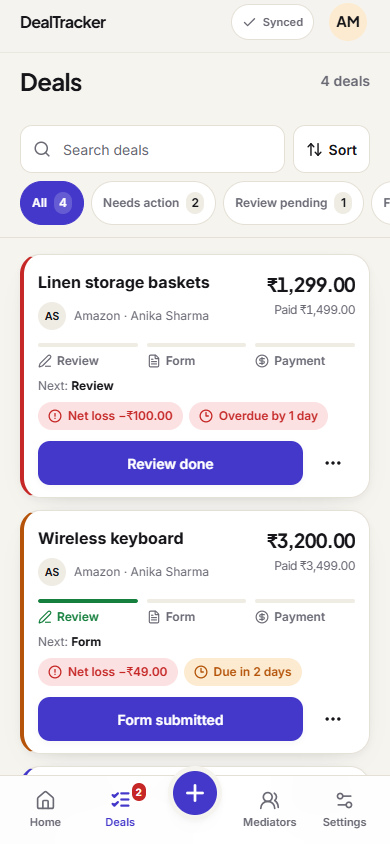
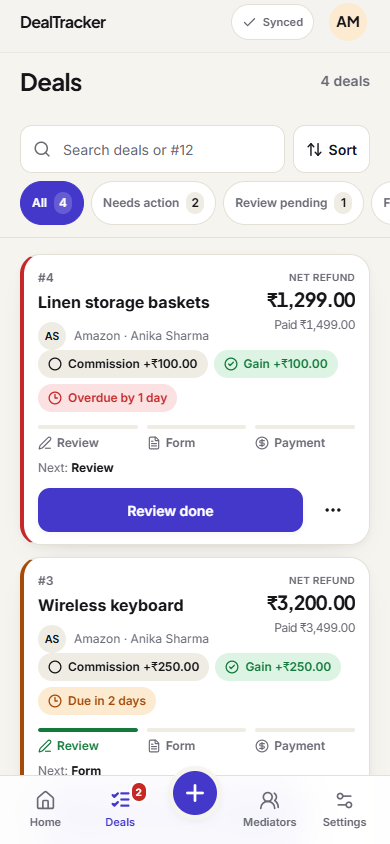
Document landing page and refresh screenshots

Changed region(s): [[0.0308, 0.3081, 0.9231, 0.9242], [0.4, 0.154, 0.4923, 0.1848]]

diff --git a/docs/DESIGN.md b/docs/DESIGN.md
@@ -29,6 +29,14 @@ To add a theme, define its light and dark palette tokens in `frontend/src/styles
 - Light cards use a restrained shadow. Dark cards rely on borders.
 - The content column is at most 480px on desktop; page gutters and bottom navigation respect device safe areas.
 
+## Public landing and legal pages
+
+The logged-out `/login` route is the product landing page. Authenticated users are redirected straight to Home and never see it. It uses the same tokens and UI primitives, one `h1`, labelled sections, native `<details>` FAQ items, and visible focus states. The primary and final actions use a Google-branded sign-in button with an 18px Google mark, the "Continue with Google" wording, and Google logo colours defined only in `tokens.css`. The Home preview is CSS and inline SVG with clearly labelled sample deals; its float, card and progress animations stop under `prefers-reduced-motion`.
+
+`/privacy` and `/terms` are public plain-English pages linked from the landing footer. Both are marked with a top-of-file legal-review comment and should be reviewed before public launch. The support address comes from `CONTACT_EMAIL` in `src/config/app.ts` and is still a placeholder.
+
+SEO tags (title, description, Open Graph, Twitter, canonical and theme colour) live in `index.html`; `src/lib/pageMeta.ts` keeps the absolute canonical and social URLs correct per page at runtime.
+
 ## Components and interaction
 
 Use the small primitives in `src/components/ui.tsx`: Button, IconButton, Card, Chip, Stat, Sheet, Toast, Skeleton, EmptyState, SegmentedControl, Input, and Select. Use `Avatar` for people and mediators. Keep existing `data-testid` hooks when restyling.
@@ -53,10 +61,11 @@ Use the small primitives in `src/components/ui.tsx`: Button, IconButton, Card, C
 
 ## Screenshot review
 
-The 390 × 844 light and dark screen captures are in [`docs/screenshots`](screenshots/). They use a local Playwright capture script with a demo account and fixture data; the script mocks API responses, waits for the hero animation to finish, and does not add an authentication path to the app. The seed and capture helper is at `frontend/dev-only/capture-design-screenshots.mjs` and refuses to run with `ENV=prod` or `NODE_ENV=production`.
+The 390 × 844 light and dark screen captures are in [`docs/screenshots`](screenshots/). They use a local Playwright capture script with a demo account and fixture data; the script mocks API responses, waits for the hero animation to finish, and does not add an authentication path to the app. The landing captures use a second context with a mocked `401` from `/api/me`, so no test-login route exists. The seed and capture helper is at `frontend/dev-only/capture-design-screenshots.mjs` and refuses to run with `ENV=prod` or `NODE_ENV=production`.
 
 | Screen | Light | Dark |
 |---|---|---|
+| Landing | [light](screenshots/light-landing.png) | [dark](screenshots/dark-landing.png) |
 | Home | [light](screenshots/light-home.png) | [dark](screenshots/dark-home.png) |
 | Deals | [light](screenshots/light-deals.png) | [dark](screenshots/dark-deals.png) |
 | Quick add | [light](screenshots/light-quick-add.png) | [dark](screenshots/dark-quick-add.png) |
@@ -64,4 +73,4 @@ The 390 × 844 light and dark screen captures are in [`docs/screenshots`](screen
 | Mediators | [light](screenshots/light-mediators.png) | [dark](screenshots/dark-mediators.png) |
 | Settings | [light](screenshots/light-settings.png) | [dark](screenshots/dark-settings.png) |
 
-To regenerate them, start the Vite development server and run `node dev-only/capture-design-screenshots.mjs` from `frontend/`. The capture also checks 360px, 768px, and 1280px layouts and confirms the wide-screen app column stays centered at 480px.
+To regenerate them, start the Vite development server and run `node dev-only/capture-design-screenshots.mjs` from `frontend/`. The capture also checks 360px, 768px, and 1280px layouts and confirms the wide-screen app column stays centered at 480px. The landing page is checked at 360px and 1280px too.

diff --git a/CHANGELOG.md b/CHANGELOG.md
@@ -1,5 +1,20 @@
 # Changelog
 
+## Public landing page and legal pages (2026-11)
+### Added
+- Replaced the logged-out login screen with a mobile-first landing page: a refund/deadline hero, Google sign-in and install actions, a CSS and inline-SVG Home preview with clearly labelled sample deals, problem, feature, how-it-works, trust, FAQ, final sign-in and footer sections.
+- Added public `/privacy` and `/terms` plain-English templates for OAuth verification, with a legal-review comment at the top of each file and links from the landing footer. No claim goes beyond the current app: no export, testimonials, user counts or ratings.
+- Added SEO basics (title, description, Open Graph, Twitter, canonical, theme colour) and a per-page meta helper.
+- Added Vitest coverage for logged-out landing rendering, logged-in redirects, install-link states, footer links and legal page headings.
+- Added 390 × 844 light and dark landing screenshots to `docs/screenshots`.
+
+### Changed
+- The dev-only screenshot helper now captures the landing page in a second context with a mocked `401`, so no authentication bypass route exists. It also checks the landing layout at 360px and 1280px and waits on `data-mode` when switching light/dark.
+
+### Notes
+- `CONTACT_EMAIL` in `frontend/src/config/app.ts` is a placeholder (`support@example.com`). Replace it before launch.
+- The privacy and terms text is a template and **needs legal review before public launch**.
+
 ## Net refund model and deal numbering (2026-11)
 ### Changed
 - Added migration `0004_deal_less_amount.py`: `refund_amount` is now generated from Paid − Less + Commission. Backfill preserves the previous total (`old refund + old commission`), including refunds above Paid by moving the excess into Commission. Migration NOTICEs report counts for the above-Paid and at-or-below-Paid rules. **Actual row counts are unavailable here because the migration was not applied to a configured database.**
